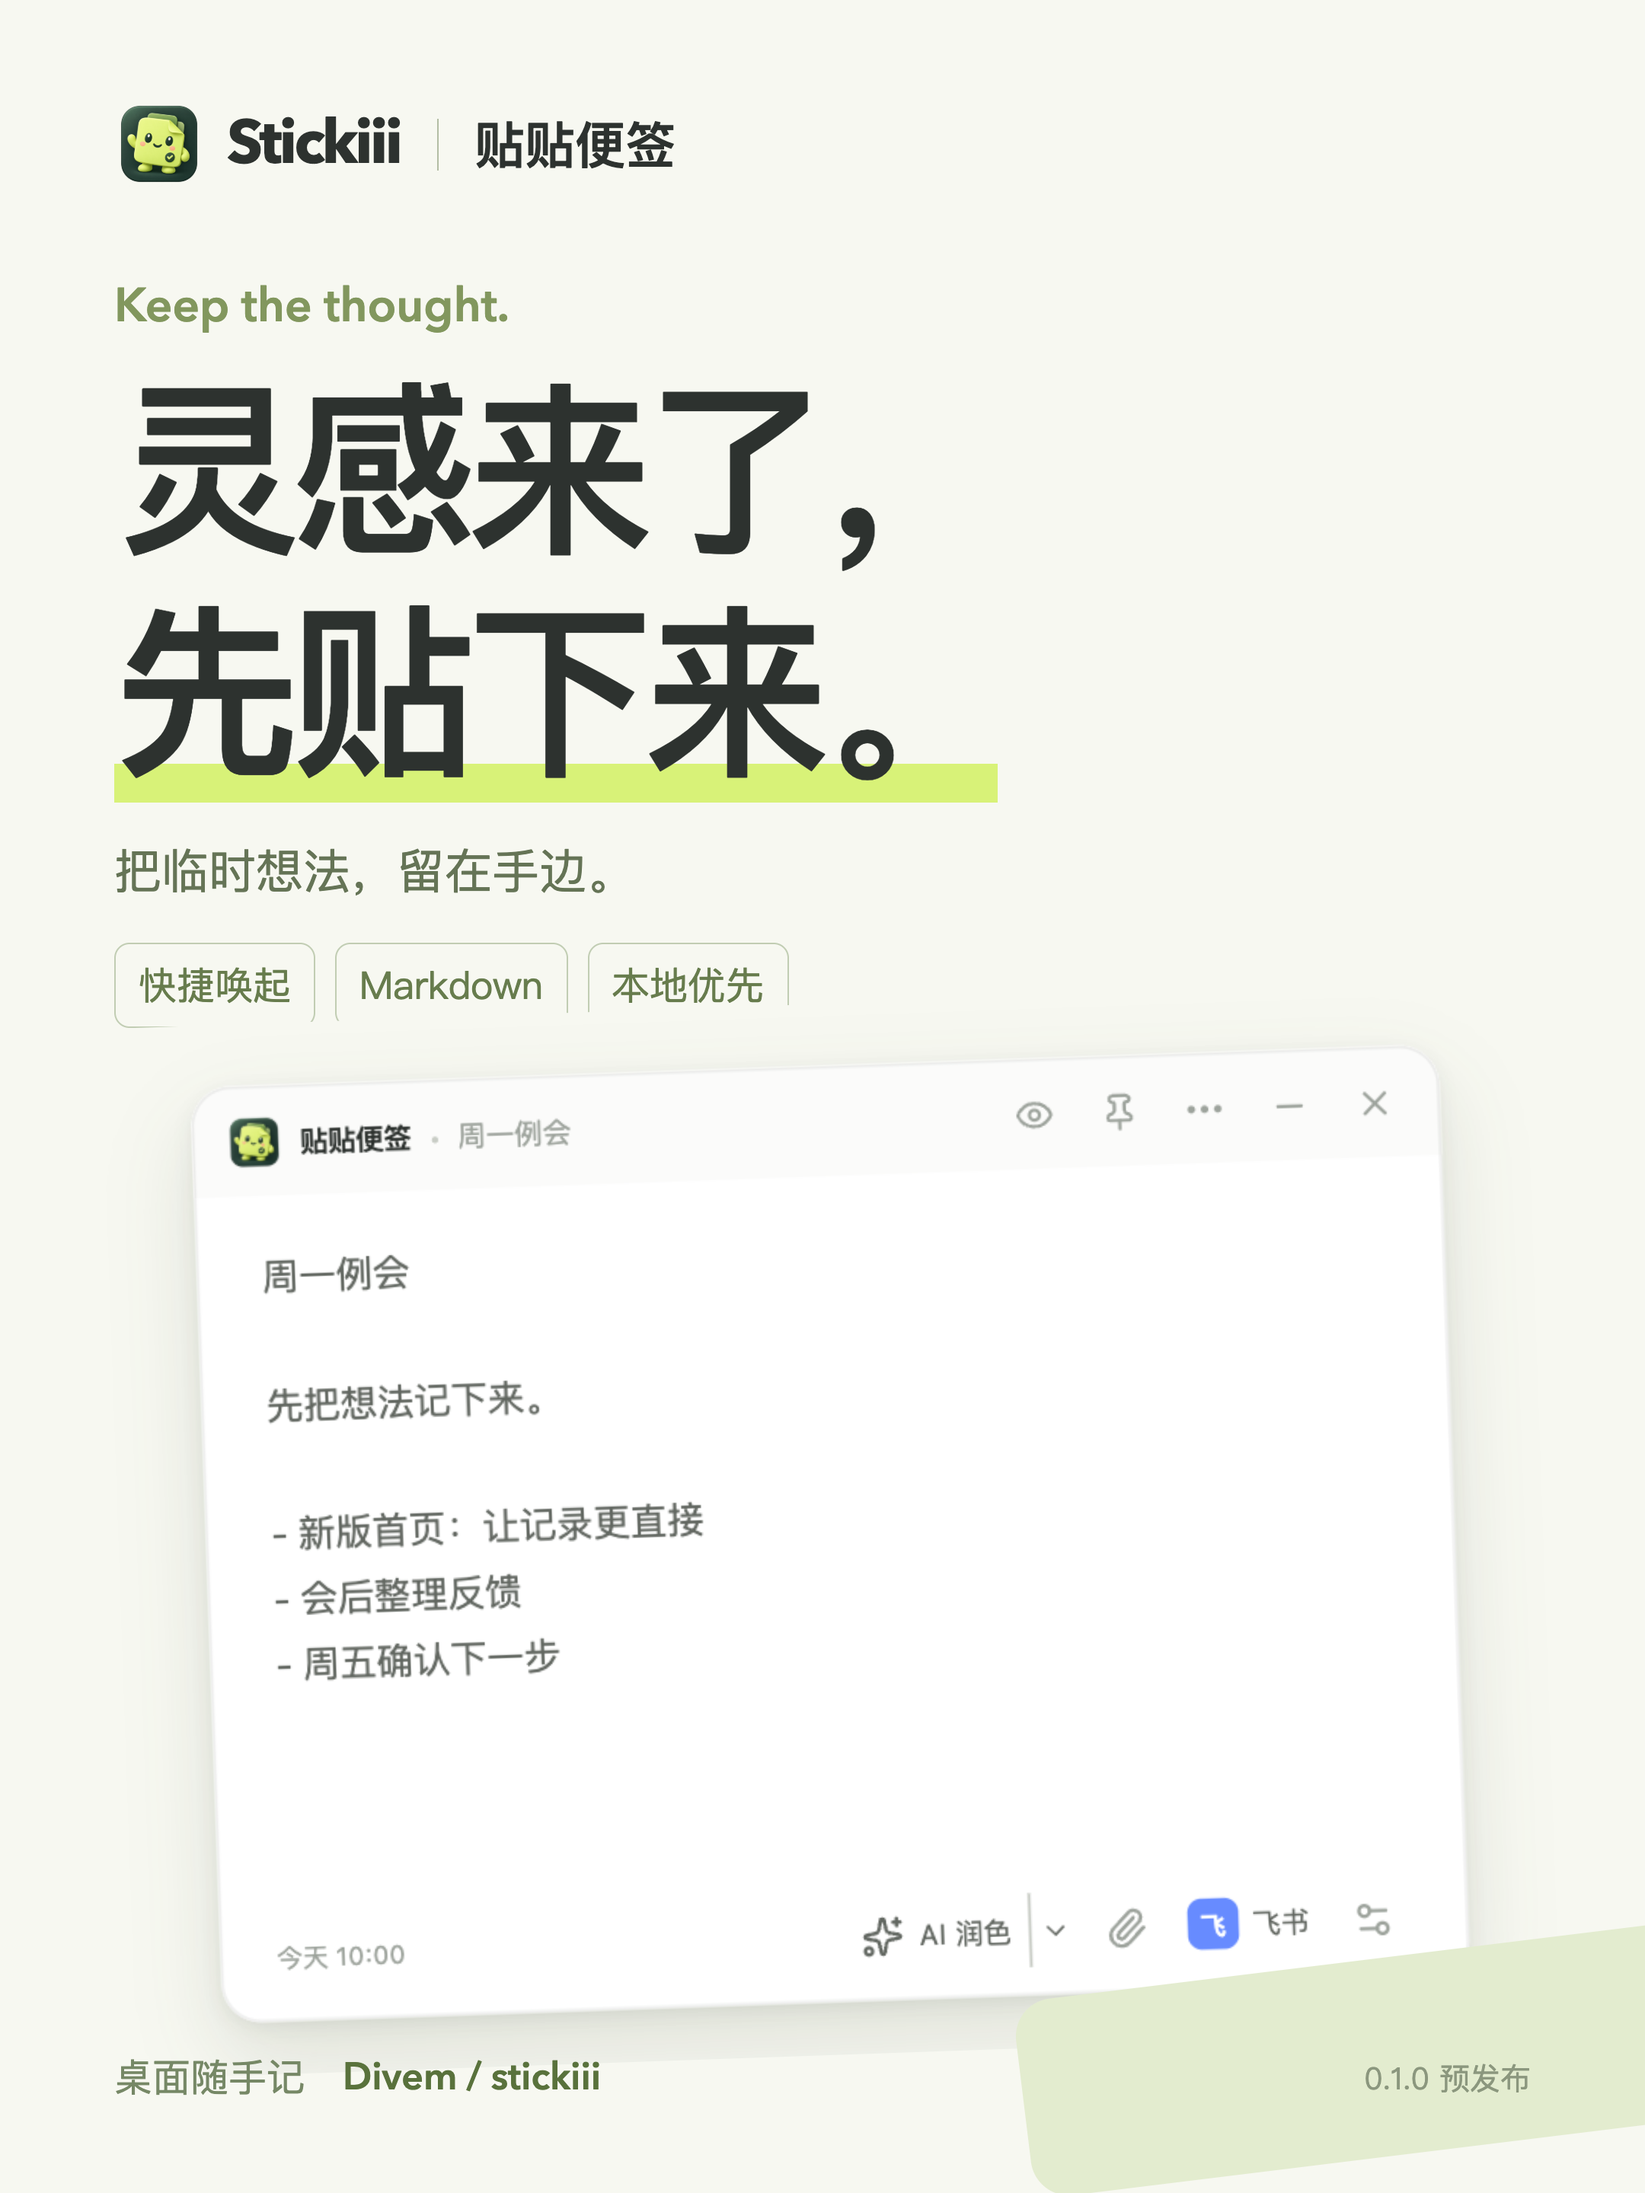
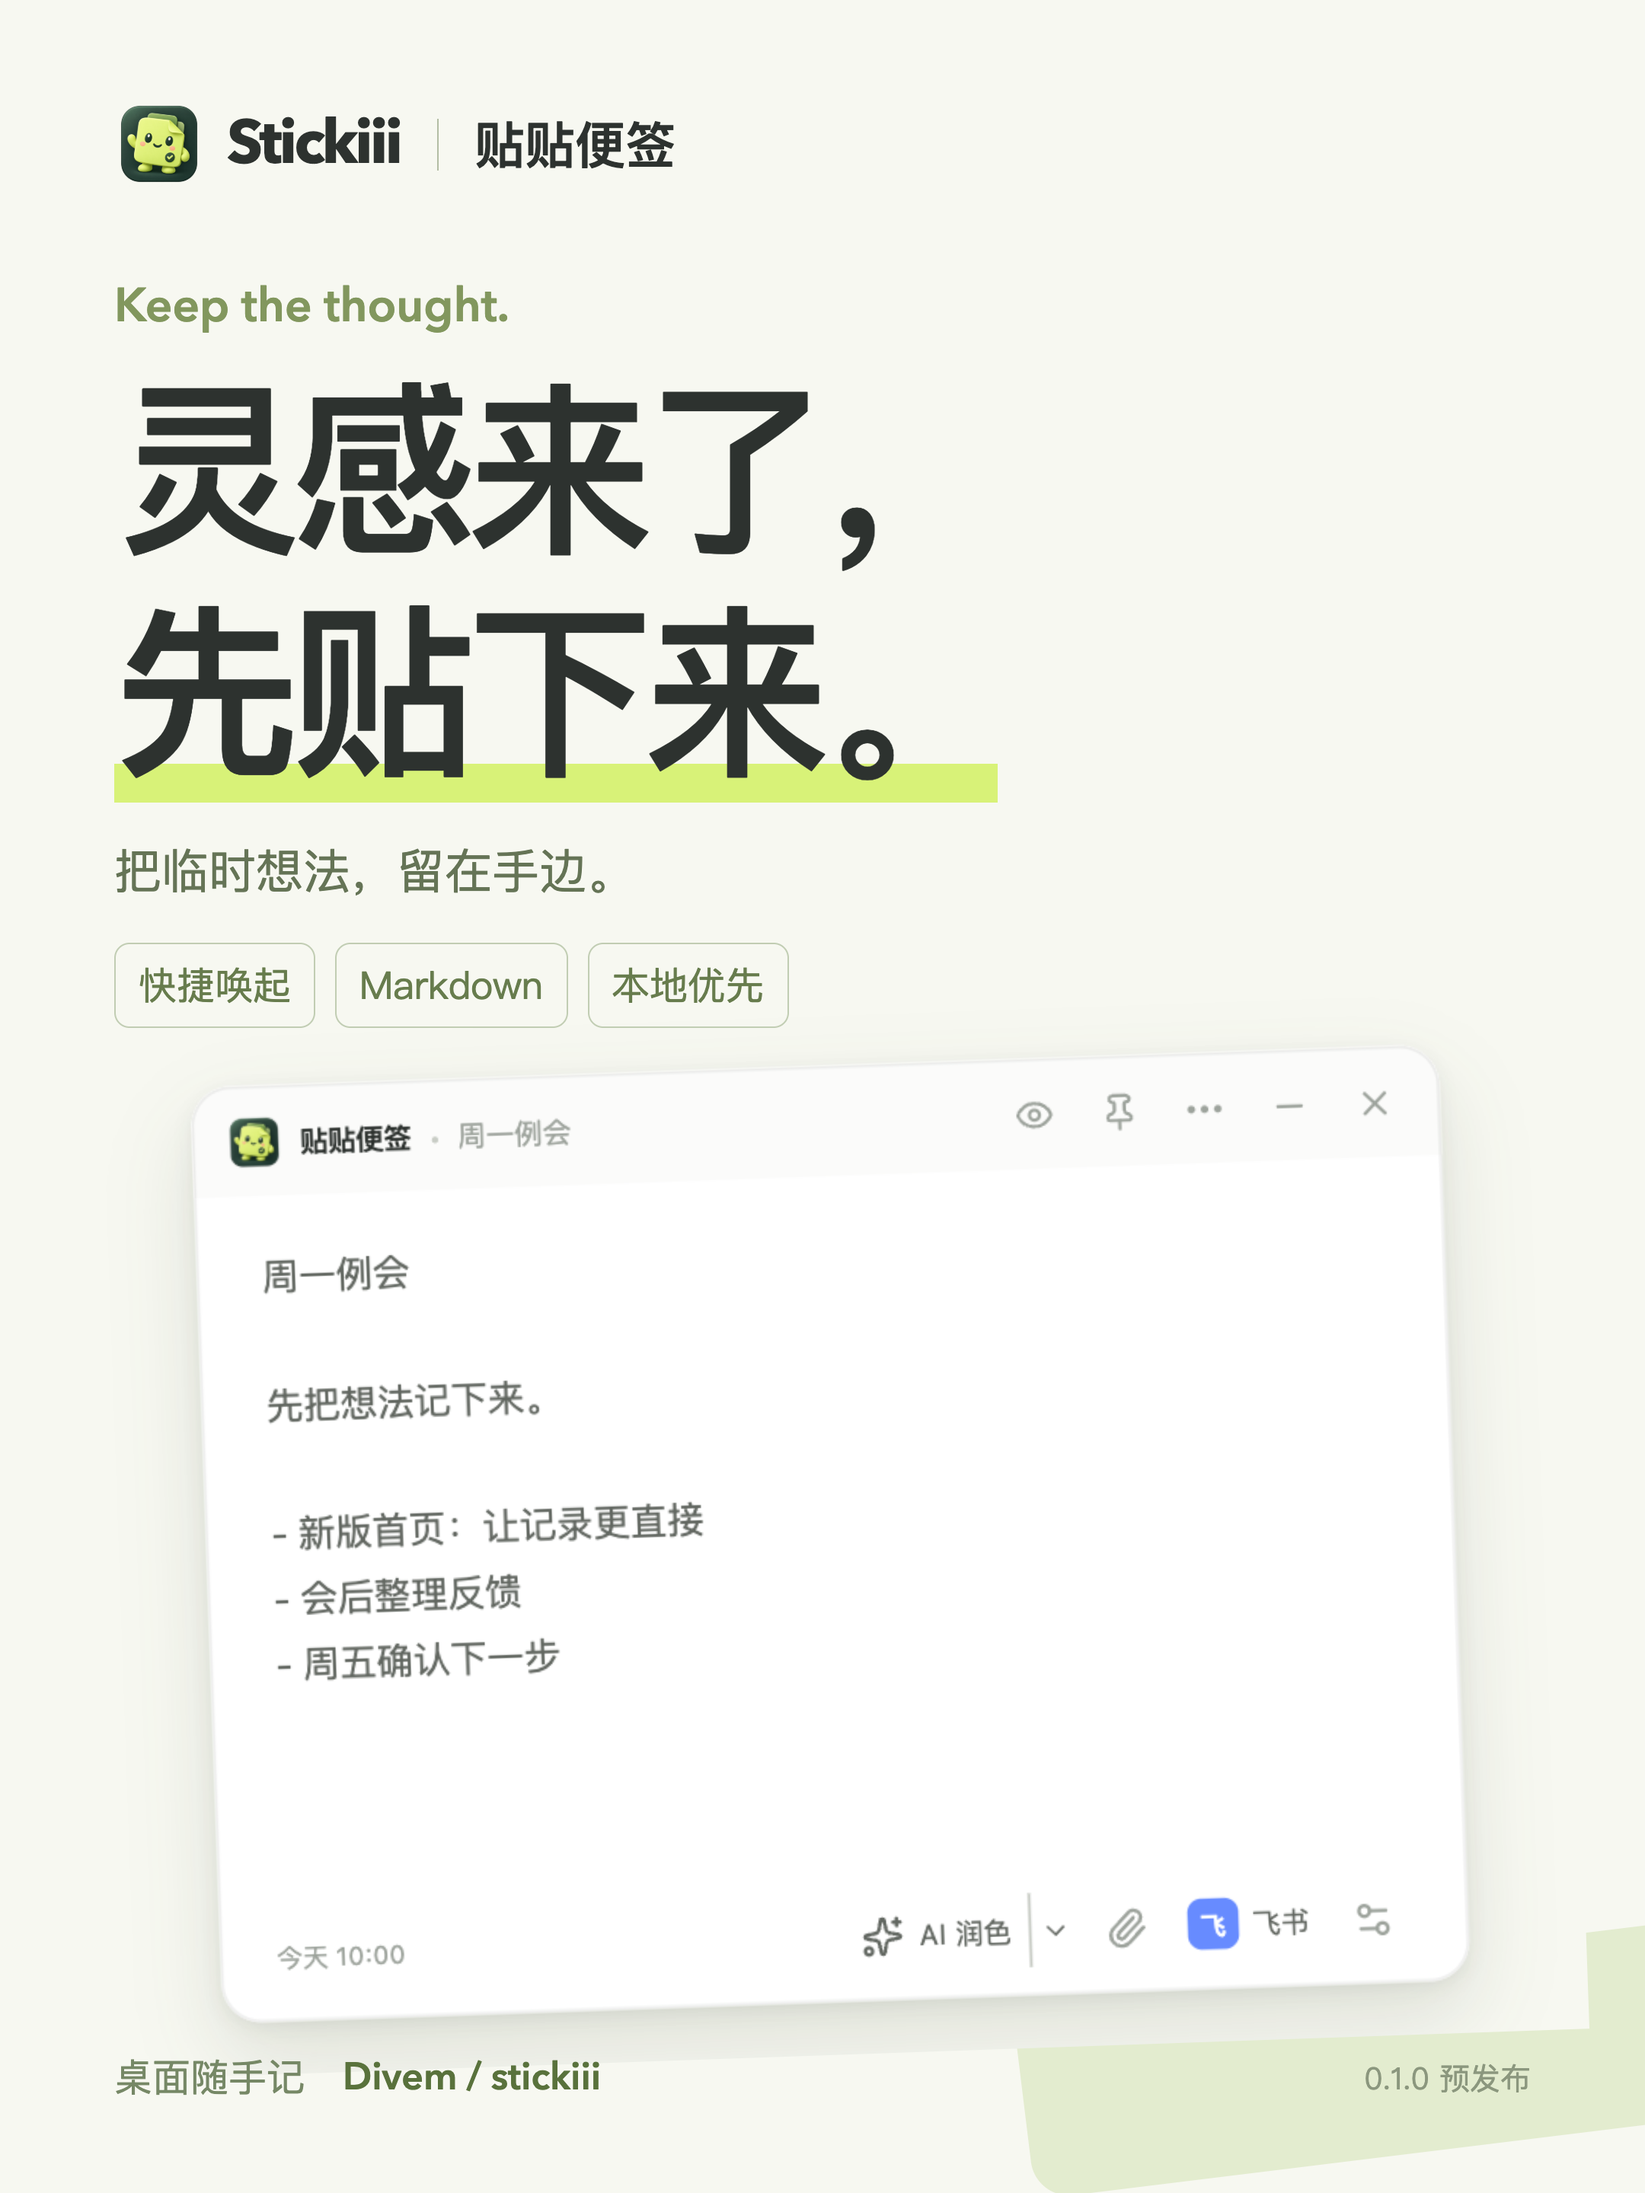
fix: 修复宣传封面标题层级
调整封面文字与界面插图的叠放顺序，同步纳入当前封面交付素材。

Changed region(s): [[0.7134, 0.875, 0.9616, 0.9375]]

diff --git a/videos/stickiii-product-promo-2026-10-03/cover/cover.html b/videos/stickiii-product-promo-2026-10-03/cover/cover.html
@@ -2,7 +2,7 @@
 *{box-sizing:border-box}body{margin:0;background:#b8beaf;font-family:'PingFang SC',sans-serif}.cover{position:relative;overflow:hidden;background:#f7f8f1;color:#2d322f;margin-bottom:30px}.cover .en{font-family:'Avenir Next',sans-serif}.brand{position:absolute;display:flex;align-items:center;gap:15px;font-size:33px;font-weight:650;left:96px;top:75px}.brand img{width:59px;height:59px}.brand .en{font-size:40px;letter-spacing:-2px}.brand i{width:1px;height:34px;background:#b3bea5;margin:0 9px}.eyebrow{font-family:'Avenir Next',sans-serif;color:#82975e;font-size:32px;font-weight:600}.title-block{position:absolute;left:96px;top:262px}.title-block h1{font-size:132px;letter-spacing:-7px;line-height:1.2;margin:18px 0 25px;font-weight:650}.title-block h1 span{background:linear-gradient(transparent 78%,#d8f278 78%,#d8f278 93%,transparent 93%)}.subtitle{font-size:34px;line-height:1.7;color:#657456;margin:0}.tags{display:flex;gap:15px;margin-top:30px;flex-wrap:wrap}.tags span{border:1px solid #c1cdb3;border-radius:10px;color:#677c4d;font-size:26px;padding:10px 17px}.interface{position:absolute;left:985px;top:225px;width:960px;height:690px;transform:scale(.9) rotate(-3deg);transform-origin:0 0;overflow:hidden}.interface img{position:absolute;width:1920px;height:1080px;left:-900px;top:-180px}.bottom{position:absolute;left:96px;bottom:91px;display:flex;gap:25px;align-items:center;color:#768866;font-size:26px}.bottom .en{font-weight:600;color:#59723c}.paper-tab{position:absolute;width:580px;height:130px;right:-80px;bottom:-70px;transform:rotate(-7deg);border-radius:25px;background:#e3eccf}.release{position:absolute;right:97px;bottom:94px;font-size:22px;color:#8b977e}.cover[data-cover="16x9"]{width:1920px;height:1080px}
 .cover[data-cover="4x3"]{width:1440px;height:1080px}.cover[data-cover="4x3"] .brand{left:76px}.cover[data-cover="4x3"] .title-block{left:76px;top:260px}.cover[data-cover="4x3"] h1{font-size:96px;letter-spacing:-5px}.cover[data-cover="4x3"] .eyebrow{font-size:29px}.cover[data-cover="4x3"] .subtitle{font-size:28px}.cover[data-cover="4x3"] .tags{width:540px;gap:10px}.cover[data-cover="4x3"] .tags span{font-size:23px;padding:9px 12px}.cover[data-cover="4x3"] .interface{left:729px;top:319px;transform:scale(.72) rotate(3deg)}.cover[data-cover="4x3"] .bottom{left:76px}.cover[data-cover="4x3"] .release{right:76px;bottom:51px}
 .cover[data-cover="3x4"]{width:1080px;height:1440px}.cover[data-cover="3x4"] .brand{left:75px;top:65px}.cover[data-cover="3x4"] .title-block{left:75px;top:180px}.cover[data-cover="3x4"] h1{font-size:122px;letter-spacing:-6px;margin:13px 0 18px}.cover[data-cover="3x4"] .eyebrow{font-size:31px}.cover[data-cover="3x4"] .subtitle{font-size:31px}.cover[data-cover="3x4"] .tags{margin-top:21px;gap:13px}.cover[data-cover="3x4"] .tags span{font-size:25px;padding:9px 15px}.cover[data-cover="3x4"] .interface{left:60px;top:676px;transform:scale(1) rotate(-2deg)}.cover[data-cover="3x4"] .bottom{left:75px;bottom:58px;font-size:25px}.cover[data-cover="3x4"] .release{right:75px;bottom:61px;font-size:20px}.cover[data-cover="3x4"] .paper-tab{bottom:28px;width:540px;right:-130px}
-</style><body>
+.title-block,.brand,.bottom,.release{z-index:2}.interface{z-index:1}.paper-tab{z-index:0}</style><body>
 <div class="cover" data-cover="16x9"><div class="brand"><img src="../public/desk-tabs-logo.png"><span class="en">Stickiii</span><i></i><span>贴贴便签</span></div><div class="title-block"><div class="eyebrow">Keep the thought.</div><h1>灵感来了，<br><span>先贴下来。</span></h1><p class="subtitle">把临时想法，留在手边。</p><div class="tags"><span>快捷唤起</span><span>Markdown</span><span>本地优先</span></div></div><div class="interface"><img src="frames/frame-capture.png"></div><div class="paper-tab"></div><div class="bottom"><span>桌面随手记</span><span class="en">Divem / stickiii</span></div><div class="release">0.1.0 预发布</div></div>
 <div class="cover" data-cover="4x3"><div class="brand"><img src="../public/desk-tabs-logo.png"><span class="en">Stickiii</span><i></i><span>贴贴便签</span></div><div class="title-block"><div class="eyebrow">Keep the thought.</div><h1>灵感来了，<br><span>先贴下来。</span></h1><p class="subtitle">把临时想法，留在手边。</p><div class="tags"><span>快捷唤起</span><span>Markdown</span><span>本地优先</span></div></div><div class="interface"><img src="frames/frame-capture.png"></div><div class="paper-tab"></div><div class="bottom"><span>桌面随手记</span><span class="en">Divem / stickiii</span></div><div class="release">0.1.0 预发布</div></div>
 <div class="cover" data-cover="3x4"><div class="brand"><img src="../public/desk-tabs-logo.png"><span class="en">Stickiii</span><i></i><span>贴贴便签</span></div><div class="title-block"><div class="eyebrow">Keep the thought.</div><h1>灵感来了，<br><span>先贴下来。</span></h1><p class="subtitle">把临时想法，留在手边。</p><div class="tags"><span>快捷唤起</span><span>Markdown</span><span>本地优先</span></div></div><div class="interface"><img src="frames/frame-capture.png"></div><div class="paper-tab"></div><div class="bottom"><span>桌面随手记</span><span class="en">Divem / stickiii</span></div><div class="release">0.1.0 预发布</div></div>
